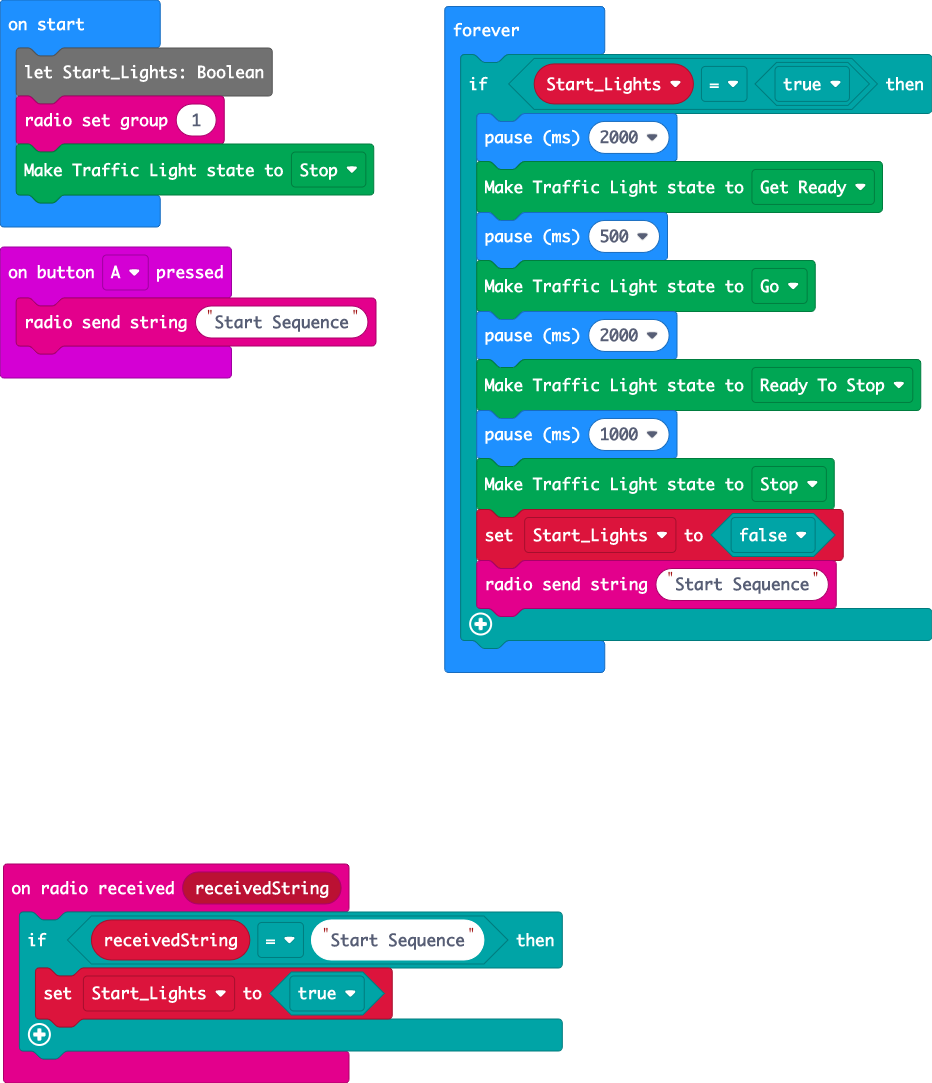
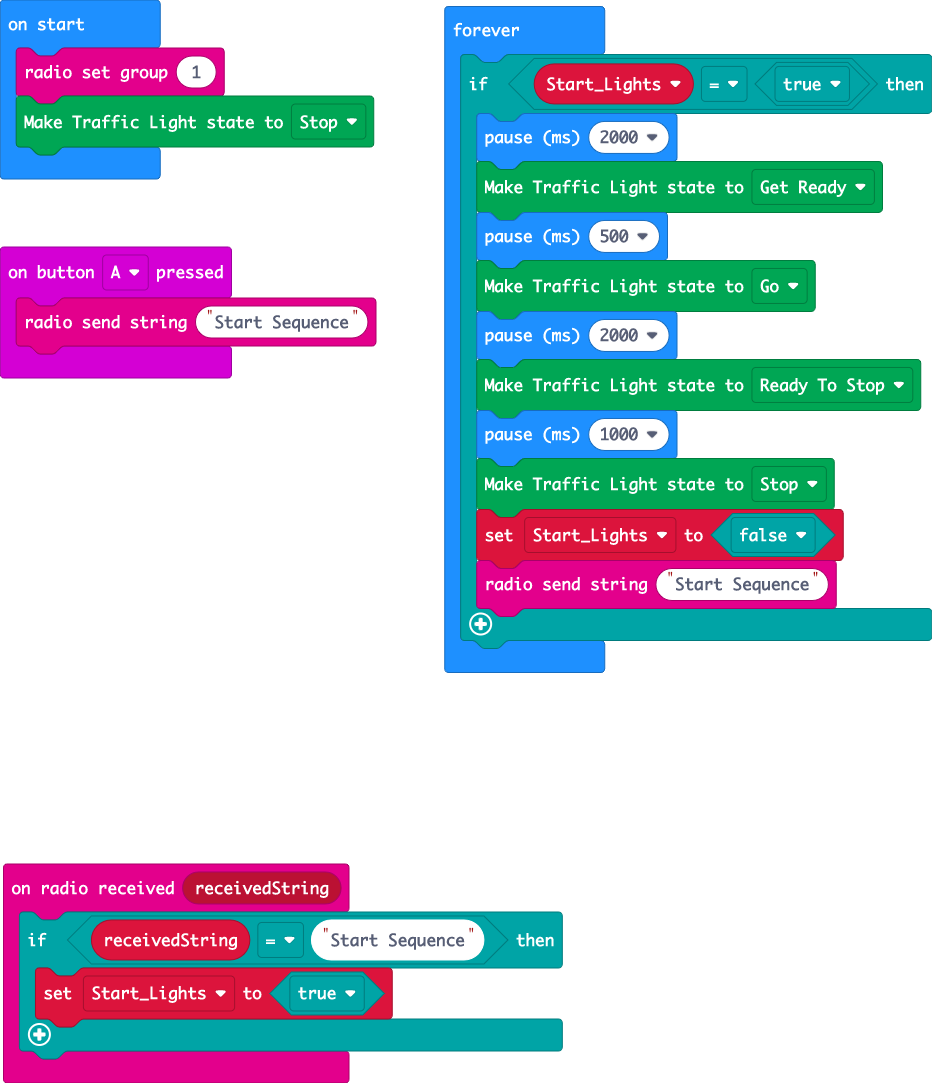
Block changes

Changed region(s): [[0.0, 0.0305, 0.4045, 0.2133]]

diff --git a/main.ts b/main.ts
@@ -6,7 +6,7 @@ radio.onReceivedString(function (receivedString) {
         Start_Lights = true
     }
 })
-let Start_Lights: Boolean
+let Start_Lights = false
 radio.setGroup(1)
 Kitronik_STOPbit.trafficLightState(Kitronik_STOPbit.LightStates.Stop)
 basic.forever(function () {
